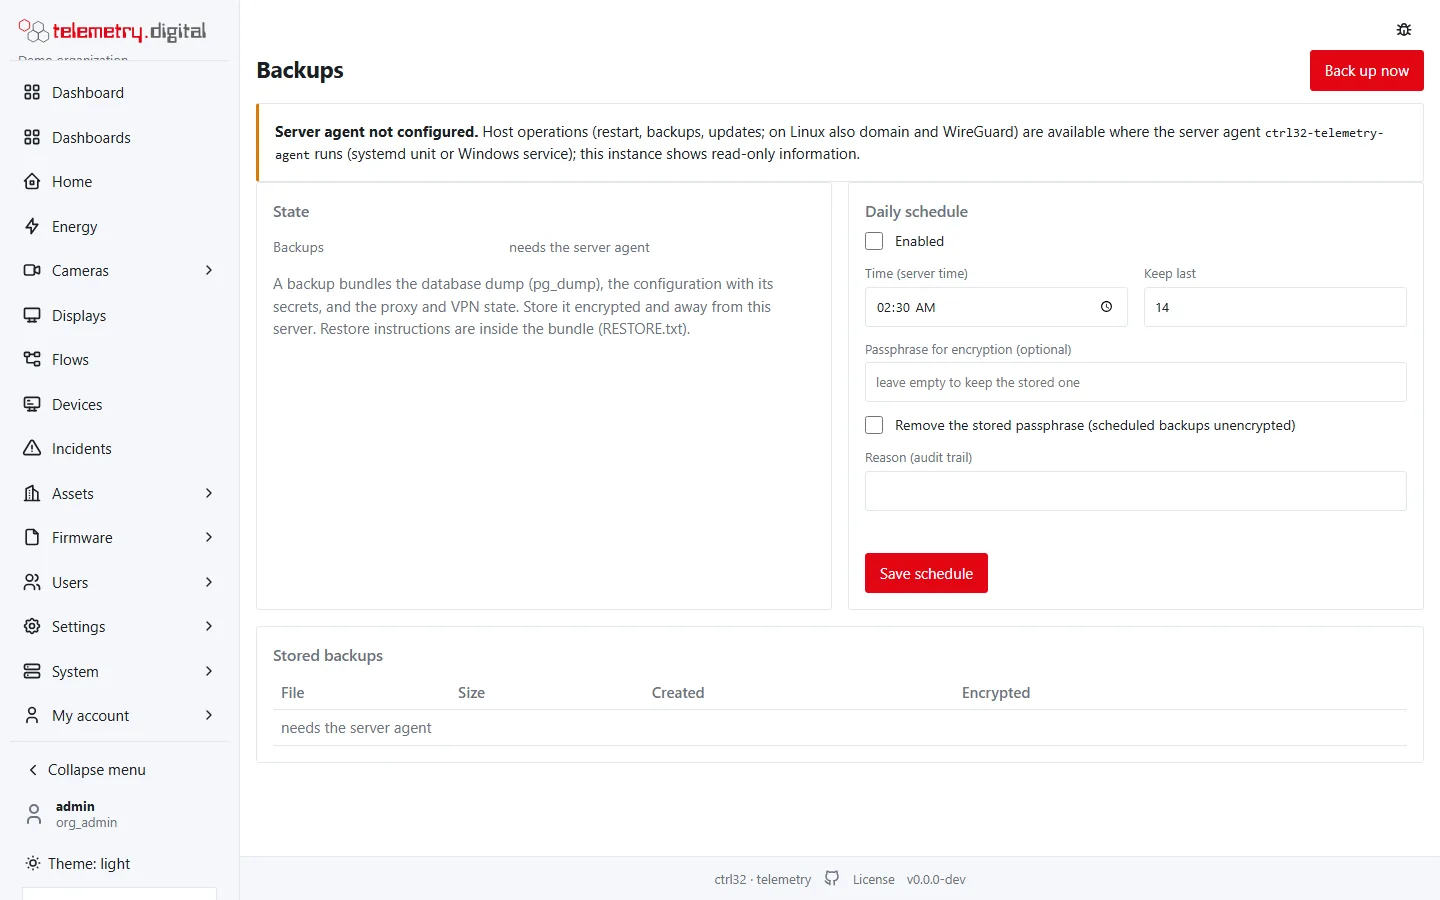
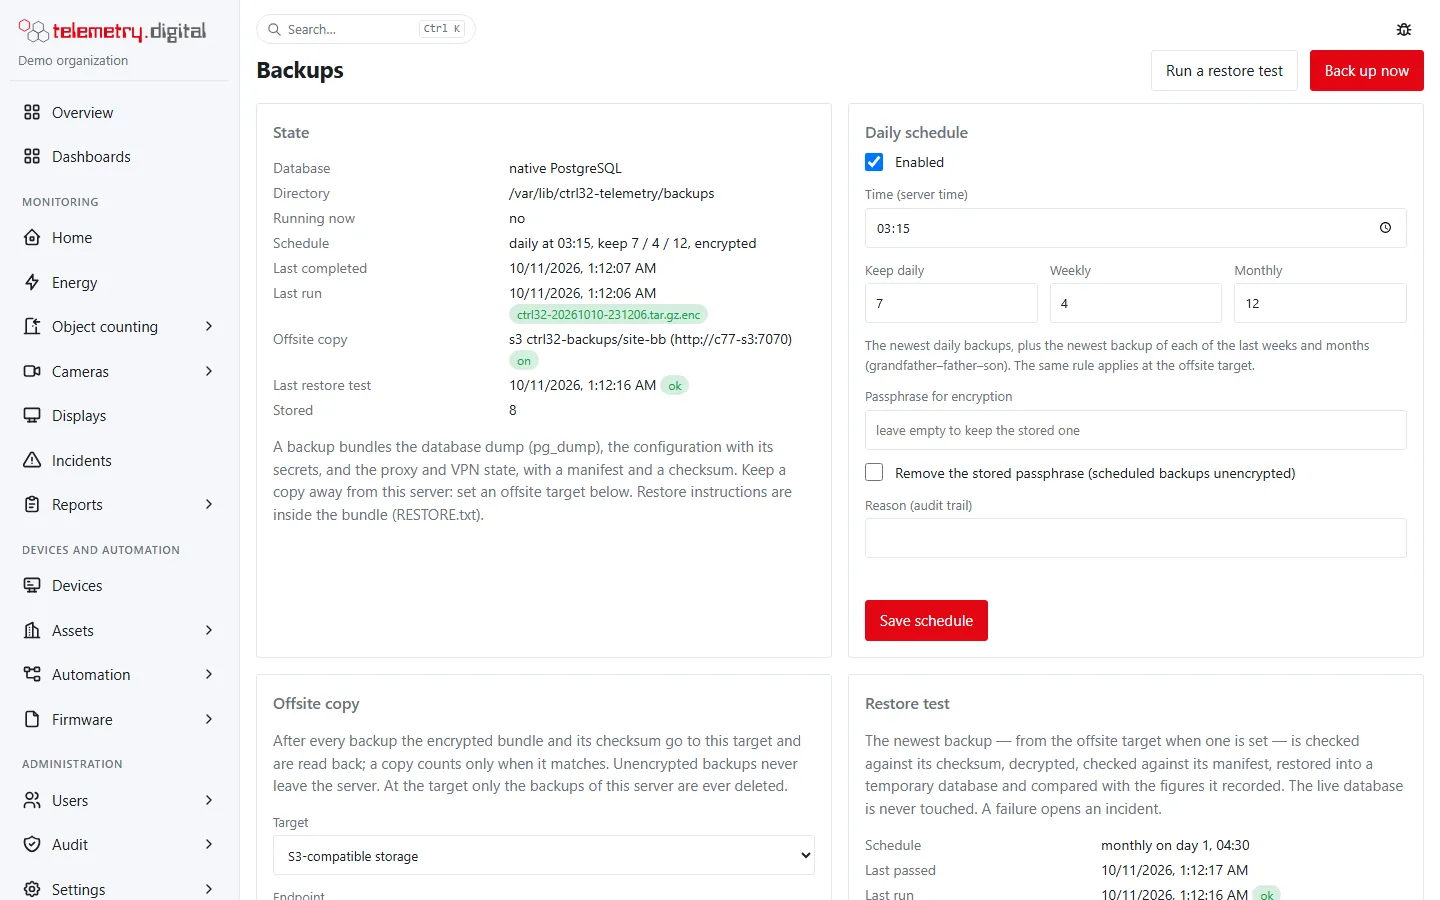
Backups: offsite copy (folder, SFTP, S3), retention by day, week and month, restore test with a protocol (0.77)

diff --git a/docs/telemetry/administration/system-reference.md b/docs/telemetry/administration/system-reference.md
@@ -126,17 +126,24 @@ generated firewall rules — has a section of its own: [VPN](../vpn/index.md). E
 
 ## Backups
 
-A backup bundles the database dump, `config.toml` with its secrets, and the proxy and VPN (WireGuard) state, plus
-`RESTORE.txt` with the steps of restoring it. Camera recordings are not included.
+A backup bundles the database dump, `config.toml` with its secrets, the proxy and VPN (WireGuard) state and the backup
+settings, plus `RESTORE.txt` with the steps of restoring it and `manifest.json` (application version, the applied
+database migrations, the number of tables, organizations, users and audit entries, and the size and SHA-256 of every
+file in the bundle). A checksum file `<bundle>.sha256` lies next to every bundle. Camera recordings are not included.
+
+![System → Backups: the state with the offsite copy and the last restore test, the daily schedule with the daily, weekly and monthly retention](img/backups.webp)
 
 | State row | Meaning |
 |---|---|
 | Database | PostgreSQL in Docker, native PostgreSQL, or not found |
 | Directory | Linux `/var/lib/ctrl32-telemetry/backups`, Windows `%ProgramData%\ctrl32-telemetry\backups` |
-| Running now | whether a backup is in progress (only one runs at a time) |
-| Schedule | daily time, number kept, encrypted or not |
+| Running now | a backup or a restore test in progress (one at a time) |
+| Schedule | daily time, kept daily / weekly / monthly, encrypted or not |
+| Last completed | the last backup that finished, including its offsite copy |
 | Last run | time and the file, or the error |
-| Stored | number of backup files |
+| Offsite copy | the target, on or off, and the error of its last listing; *none* when backups are only on this server |
+| Last restore test | time and result |
+| Stored | number of backups on this server |
 
 ### Daily schedule
 
@@ -144,26 +151,82 @@ A backup bundles the database dump, `config.toml` with its secrets, and the prox
 |---|:---:|---|
 | Enabled | off | — |
 | Time (server time) | 02:30 | 00:00–23:59 |
-| Keep last | 14 | 1–365 |
-| Passphrase for encryption | — | optional; blank keeps the stored one |
-| Remove the stored passphrase | off | scheduled backups become unencrypted |
+| Keep daily | 14 | 1–365 — the newest N backups |
+| Weekly | 4 | 0–104 — plus the newest backup of each of the last N weeks |
+| Monthly | 12 | 0–120 — plus the newest backup of each of the last N months |
+| Passphrase for encryption | — | blank keeps the stored one; required for an offsite target |
+| Remove the stored passphrase | off | refused while an offsite target is on |
 | Reason (audit trail) | — | required |
 
-After each scheduled backup, the oldest backup files beyond *Keep last* are deleted — this counts every file in the
-directory, including backups made by hand.
+After each scheduled backup the retention rule (grandfather–father–son) deletes the other backups on this server; the
+newest backup is always kept. The same rule applies at the offsite target, but only to the files this server uploaded
+there — several servers may share a folder or a bucket.
 
-### Back up now and stored backups
+### Offsite copy
 
-**Back up now** asks for an optional passphrase and a reason. With a passphrase the bundle is encrypted (AES-256,
-`.enc` file; the host needs OpenSSL). The list shows *File*, *Size*, *Created* and *Encrypted*, with **Download** and
-**Delete** (with a reason; only the file is removed).
+After every backup the **encrypted** bundle and its checksum go to the target and are read back; the copy counts only
+when its SHA-256 matches. Unencrypted backups never leave the server. When the target was unreachable, the next backup
+copies the missing ones; **Send missing backups now** does it at once (with a reason).
 
-A failed scheduled backup opens an incident. **Restoring** is done on the command line following `RESTORE.txt`, never
-from the page.
+![The Offsite copy card with an S3-compatible storage](img/backups-offsite.webp)
 
-!!! warning "Keep backups somewhere else"
-    A backup on the server's own disk does not survive that disk. Download backups or copy them to another machine,
-    keep the passphrase apart from them, and try a restore before you need one.
+| Target | Fields |
+|---|---|
+| Folder (disk, mounted SMB/NFS share, UNC path) | *Path* — absolute; the operating system mounts the share (`/mnt/backup`, `\\nas\backup`) |
+| SFTP server | *Host*, *Port* (22), *User*, *Directory*, *Password* or *Private key* (unencrypted OpenSSH or PEM), *Host key fingerprint* (`SHA256:…`, required) |
+| S3-compatible storage | *Endpoint* (`https://…`; `http://` only to this host or the local network), *Bucket*, *Region*, *Access key*, *Secret key*, *Prefix (folder in the bucket)*, *Path-style addresses* (MinIO and some providers) |
+
+**Test** writes a small file to the target, reads it back and deletes it. For SFTP it also shows the fingerprint of the
+server's key: compare it with the server (`ssh-keygen -lf /etc/ssh/ssh_host_ed25519_key.pub` there), then
+**Pin this host key** and test again. Without a pinned key, or with another one, nothing is sent.
+
+![SFTP fields: the test reports the server's key and offers to pin it](img/backups-offsite-sftp.webp)
+
+**Save target…** asks for a reason and your password (and the authenticator code); an enabled target is tested first.
+Only a person signed in the browser can set or remove a target — not an API token and not an AI assistant. Passwords
+and keys are never shown again; leaving them blank keeps the stored ones for the same host and user (SFTP) or the same
+endpoint and access key (S3).
+
+### Restore test
+
+The newest backup — from the offsite target when one is on, otherwise from this server — is checked against its
+checksum, decrypted, checked against its manifest, restored into the temporary database `ctrl32_restoretest` and
+compared with the figures the manifest recorded (the migrations and the number of tables must be equal; a table that had
+rows must not be empty); the temporary database is then dropped. The live database is never touched. The PostgreSQL
+server needs free space for one more copy of the database while the test runs.
+
+![The Restore test card: schedule, last result, day of the month, time and source](img/backups-restore-test.webp)
+
+| Field | Default | Limits |
+|---|:---:|---|
+| Monthly restore test | on | — |
+| Day of the month | 1 | 1–28 |
+| Time | 04:30 | server time |
+| Source | automatic | *offsite copy*, *this server* |
+| Reason (audit trail) | — | required |
+
+**Run a restore test** at the top of the page starts one now (with a reason).
+
+### Stored backups and the protocol
+
+**Back up now** encrypts with the stored passphrase (or another one you enter; without a passphrase the backup is not
+encrypted and stays on this server) and asks for a reason. The list shows *File*, *Size*, *Created*, *Encrypted*,
+*Checksum* (the start of the SHA-256) and *Offsite* (whether the target has it), with **Download** and **Delete** (with a
+reason; only the file on this server is removed).
+
+**Protocol** lists every backup, offsite copy and restore test; a row opens its steps with the result, a detail and the
+time of each.
+
+![The protocol: backups, restore tests from the offsite copy and from this server, and a restore test that found a damaged copy](img/backups-protocol.webp)
+
+![A restore test's steps: newest backup, download, checksum, decryption and manifest, restore into a temporary database, comparison, temporary database dropped](img/backups-run.webp)
+
+Every finished run is in the audit trail (`server.backup_result`, `server.backup_offsite_sync_result`,
+`server.restore_test_result`). A failed backup, offsite copy or restore test opens an incident (*Backup failed*,
+*Offsite copy of the backup failed*, *Restore test failed*) for the server administrators; the next successful run of
+the same kind resolves it. No completed backup for more than 26 hours while the schedule is on opens *No completed
+backup since …*. **Restoring** the live database is done on the command line following `RESTORE.txt`, never from the
+page.
 
 ## Redundant database
 

diff --git a/docs/telemetry/administration/server.md b/docs/telemetry/administration/server.md
@@ -38,19 +38,26 @@ A backup is one package with:
 - the database;
 - `config.toml` — including the secret keys without which password hashes and encrypted settings cannot be used;
 - the web server and VPN (WireGuard) configuration;
+- `manifest.json` — the version, the database figures and a checksum of every file, so a restore can be checked;
 - `RESTORE.txt` — the steps of restoring it.
 
-Backups can be **encrypted with a passphrase**, made by hand or **daily** at a set time (default 02:30, keeping the
-last 14), downloaded and deleted (with a reason). A failed scheduled backup opens an incident.
+Backups are made **daily** at a set time (default 02:30) or by hand, **encrypted with a passphrase** and kept by a
+grandfather–father–son rule: by default the last 14 days, one a week for 4 weeks and one a month for 12 months.
 
-![System → Backups: the state, the daily schedule with time, number of backups kept, an optional passphrase and a reason, and the list of stored backups](img/backups.webp)
+![System → Backups: the state, the offsite copy and the last restore test, the daily schedule with the retention](img/backups.webp)
 
-**Restoring** is deliberately not a button: it is destructive and is done on the command line following
-`RESTORE.txt` in the package.
+**Offsite copy.** A backup on the server's own disk does not survive that disk. Set a target away from the server — a
+folder on another disk or a mounted network share, an **SFTP** server or **S3-compatible storage** — and every backup is
+copied there encrypted and read back to check it. Only encrypted backups leave the server.
 
-!!! warning "Keep backups somewhere else"
-    A backup on the same disk as the server does not survive the disk. Download backups or copy them to another
-    machine, keep the passphrase apart from them, and try a restore before you need one.
+**Restore test.** Once a month the newest offsite copy is restored into a temporary database and compared with what
+the backup recorded, so you know the backups can be restored before you need one. The protocol on the page shows every
+step; a failed backup, copy or restore test opens an incident.
+
+**Restoring** the live database is deliberately not a button: it is destructive and is done on the command line
+following `RESTORE.txt` in the package. Keep the passphrase apart from the backups — without it they cannot be opened.
+
+Every field is in the [System reference](system-reference.md#backups).
 
 Camera recordings are not in the backup — they live on their own disk (see
 [Recording and storage](../video-nvr/recording.md)).
